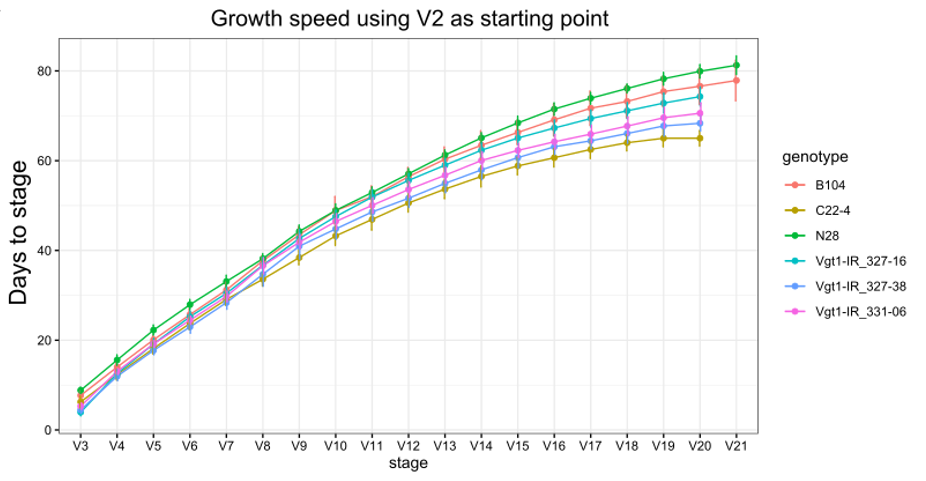
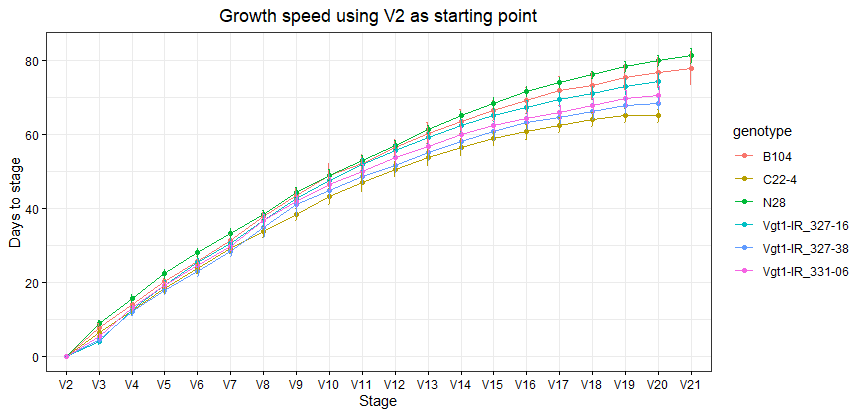
Add V2 stage in growth speed figure (supp figure 3A)

diff --git a/README.md b/README.md
@@ -2,7 +2,7 @@ Vgt1 acts as an enhancer of ZmRap2.7 and regulates flowering time in
 maize
 ================
 Johan Zicola
-2025-03-28 16:07:38
+2025-03-31 14:37:12
 
 - [Introduction](#introduction)
 - [Flowering time analysis](#flowering-time-analysis)
@@ -503,12 +503,12 @@ data_R <- read.delim("data/growth_speed.txt")
 data_R$genotype <- as.factor(data_R$genotype)
 
 # Growth rate data
-df_growth_speed <- data_R[, 1:20]
+df_growth_speed <- data_R[, 1:21]
 
 # DAV2 stands for days after V2 stage
-df_growth_speed <- df_growth_speed %>% gather(stage, DAV2, V3:V21)
+df_growth_speed <- df_growth_speed %>% gather(stage, DAV2, V2:V21)
 
-stage_order <- paste("V",3:21, sep="")
+stage_order <- paste("V",2:21, sep="")
 
 df_growth_speed$stage <- factor(df_growth_speed$stage, levels=stage_order, ordered=T)
 
@@ -535,7 +535,10 @@ df2 <- data_summary(df_growth_speed, varname="DAV2",
                     groupnames=c("genotype", "stage"))
 
 # filter(stage!="V21") 
-df2 %>% ggplot(aes(x=stage, y=DAV2, group=genotype, color=genotype)) + 
+df2 %>% ggplot(aes(x=stage, y=DAV2, group=genotype, color=genotype)) +
+  ylab("Days to stage") +
+  xlab("Stage") +
+  ggtitle("Growth speed using V2 as starting point") +
   geom_line() +
   geom_point()+
   geom_errorbar(aes(ymin=DAV2-sd, ymax=DAV2+sd), width=.2,
